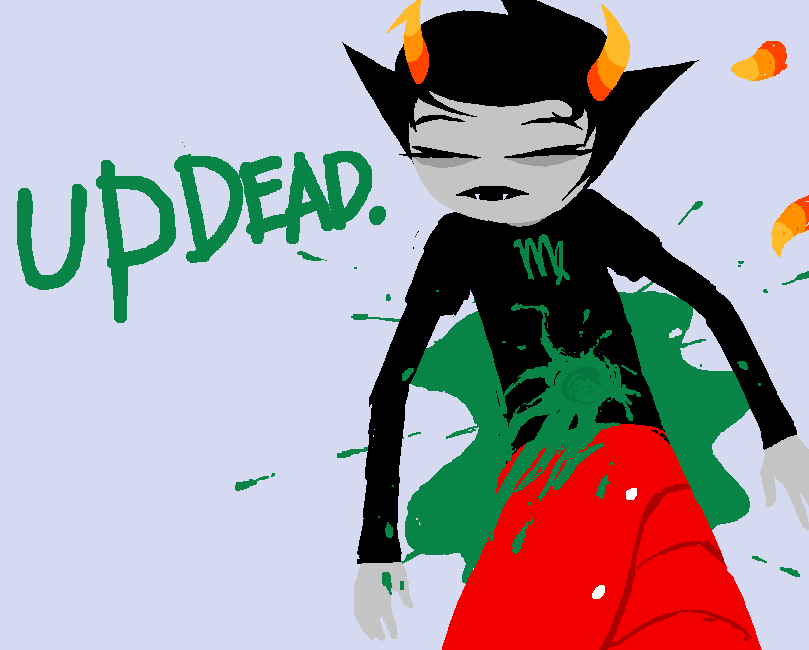
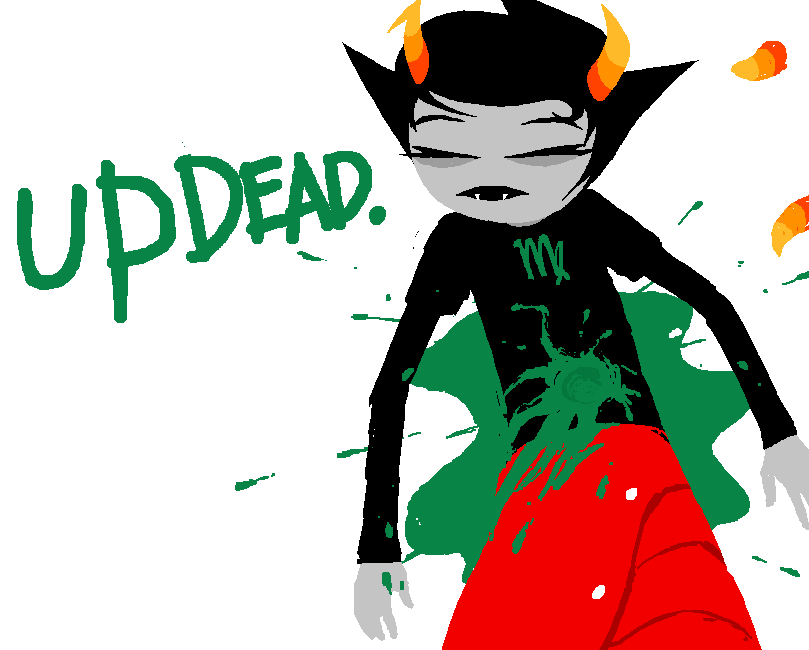
Added trasnparent backgrounds to art. Fixed display bugs and changed cursor on hovering image

diff --git a/gui.py b/gui.py
@@ -1,6 +1,6 @@
 from PyQt5.QtWidgets import *
 from PyQt5.QtCore import Qt, QTimer, QUrl
-from PyQt5.QtGui import QPixmap, QMouseEvent, QIcon, QPalette, QMovie, QColor
+from PyQt5.QtGui import QPixmap, QMouseEvent, QIcon, QPalette, QMovie, QColor, QCursor
 from PyQt5.QtMultimedia import QSoundEffect
 import webbrowser
 import pickle
@@ -56,6 +56,7 @@ class Notification(QMainWindow):
     def __init__(self, name, notifier, artPath, link, sound=None, *args, **kwargs):
         '''Image and Sound should be paths to files. Set Sound to None for silent notifications'''
         super().__init__(*args, **kwargs)
+        self.setCursor(QCursor(Qt.PointingHandCursor))
         self.name = name
         self.notifier = notifier
         self.link = link
@@ -87,8 +88,8 @@ class Notification(QMainWindow):
         self.move(x_pos, y_pos)
     def mousePressEvent(self, QMouseEvent):
         if QMouseEvent.button() == Qt.LeftButton:
-            webbrowser.open_new_tab(self.link)
             self.close()
+            webbrowser.open_new_tab(self.link)
         elif QMouseEvent.button() == Qt.RightButton:
             self.close()
 
@@ -103,8 +104,8 @@ class Notification(QMainWindow):
 
     def close(self):
         '''Updates notifier before closing'''
-        self.notifier.update()
         super().close()
+        self.notifier.update()
 
 class Feed():
     def __init__(self, name, link, imageFolder, notifier, active = True, updateFreq = 5, psInactive = False, psUpdateFreq = 30, sound = None, latestLink = ''):
@@ -167,34 +168,38 @@ class Feed():
 
 
 class RSSFeed(Feed):
-    def fetchUpdate(self):
+    def fetchUpdate(self, force = False):
+        '''force = True pushes a notification to the notifier even if there was no update'''
         link = getLatestRSS(self.link)
-        for _ in range(2):
-            try:
-                if link!=self.latestLink:
-                    self.latestLink = link
-                    self.save()
-                    self.notifier.push(self.generateNotification())
-            except:
-                print("Couldn't connect to website")
-                pass
+        try:
+            if link!=self.latestLink:
+                self.latestLink = link
+                self.save()
+                self.notifier.push(self.generateNotification())
+            elif force:
+                self.notifier.push(self.generateNotification())
+        except:
+            print("Couldn't connect to website")
+            pass
 
 class WebsiteFeed(Feed):
     def __init__(self, xpath, *args, **kwargs):
         super().__init__(*args, **kwargs)
         self.xpath = xpath
 
-    def fetchUpdate(self):
-        for _ in range(2):
-            try:
-                link = getLatestLink(self.link, self.xpath)
-                if link!=self.latestLink:
-                    self.latestLink = link
-                    self.save()
-                    self.notifier.push(self.generateNotification())
-            except:
-                print("Couldn't connect to website")
-                pass
+    def fetchUpdate(self, force = False):
+        '''force = True pushes a notification to the notifier even if there was no update'''
+        try:
+            link = getLatestLink(self.link, self.xpath)
+            if link!=self.latestLink:
+                self.latestLink = link
+                self.save()
+                self.notifier.push(self.generateNotification())
+            elif force:
+                self.notifier.push(self.generateNotification())
+        except:
+            print("Couldn't connect to website")
+            pass
 
 class SettingsWindow(QMainWindow):
     def __init__(self, tray, *args, **kwargs):
@@ -334,6 +339,10 @@ class TrayApp(QSystemTrayIcon):
         menu = QMenu()
         updateAction = menu.addAction("Update NOW")
         updateAction.triggered.connect(self.updateAll)
+        fakeMenu = menu.addMenu("Fake update")
+        for feed in self.feeds:
+            forceUpdate = fakeMenu.addAction(feed.name)
+            forceUpdate.triggered.connect(lambda _, feed=feed:feed.fetchUpdate(force=True))
         settingsAction = menu.addAction("Settings")
         settingsAction.triggered.connect(self.openSettingsWindow)
         quitAction = menu.addAction("Quit")

diff --git a/core.py b/core.py
@@ -12,7 +12,7 @@ def getLatestLink(link, xpath):
     page = requests.get(link)
     tree = html.fromstring(page.content)
     tree.make_links_absolute(link)
-    latest_link = tree.xpath(xpath)
+    latest_link = tree.xpath(xpath)[0]
     return latest_link
 
 # https://www.deconreconstruction.com/
